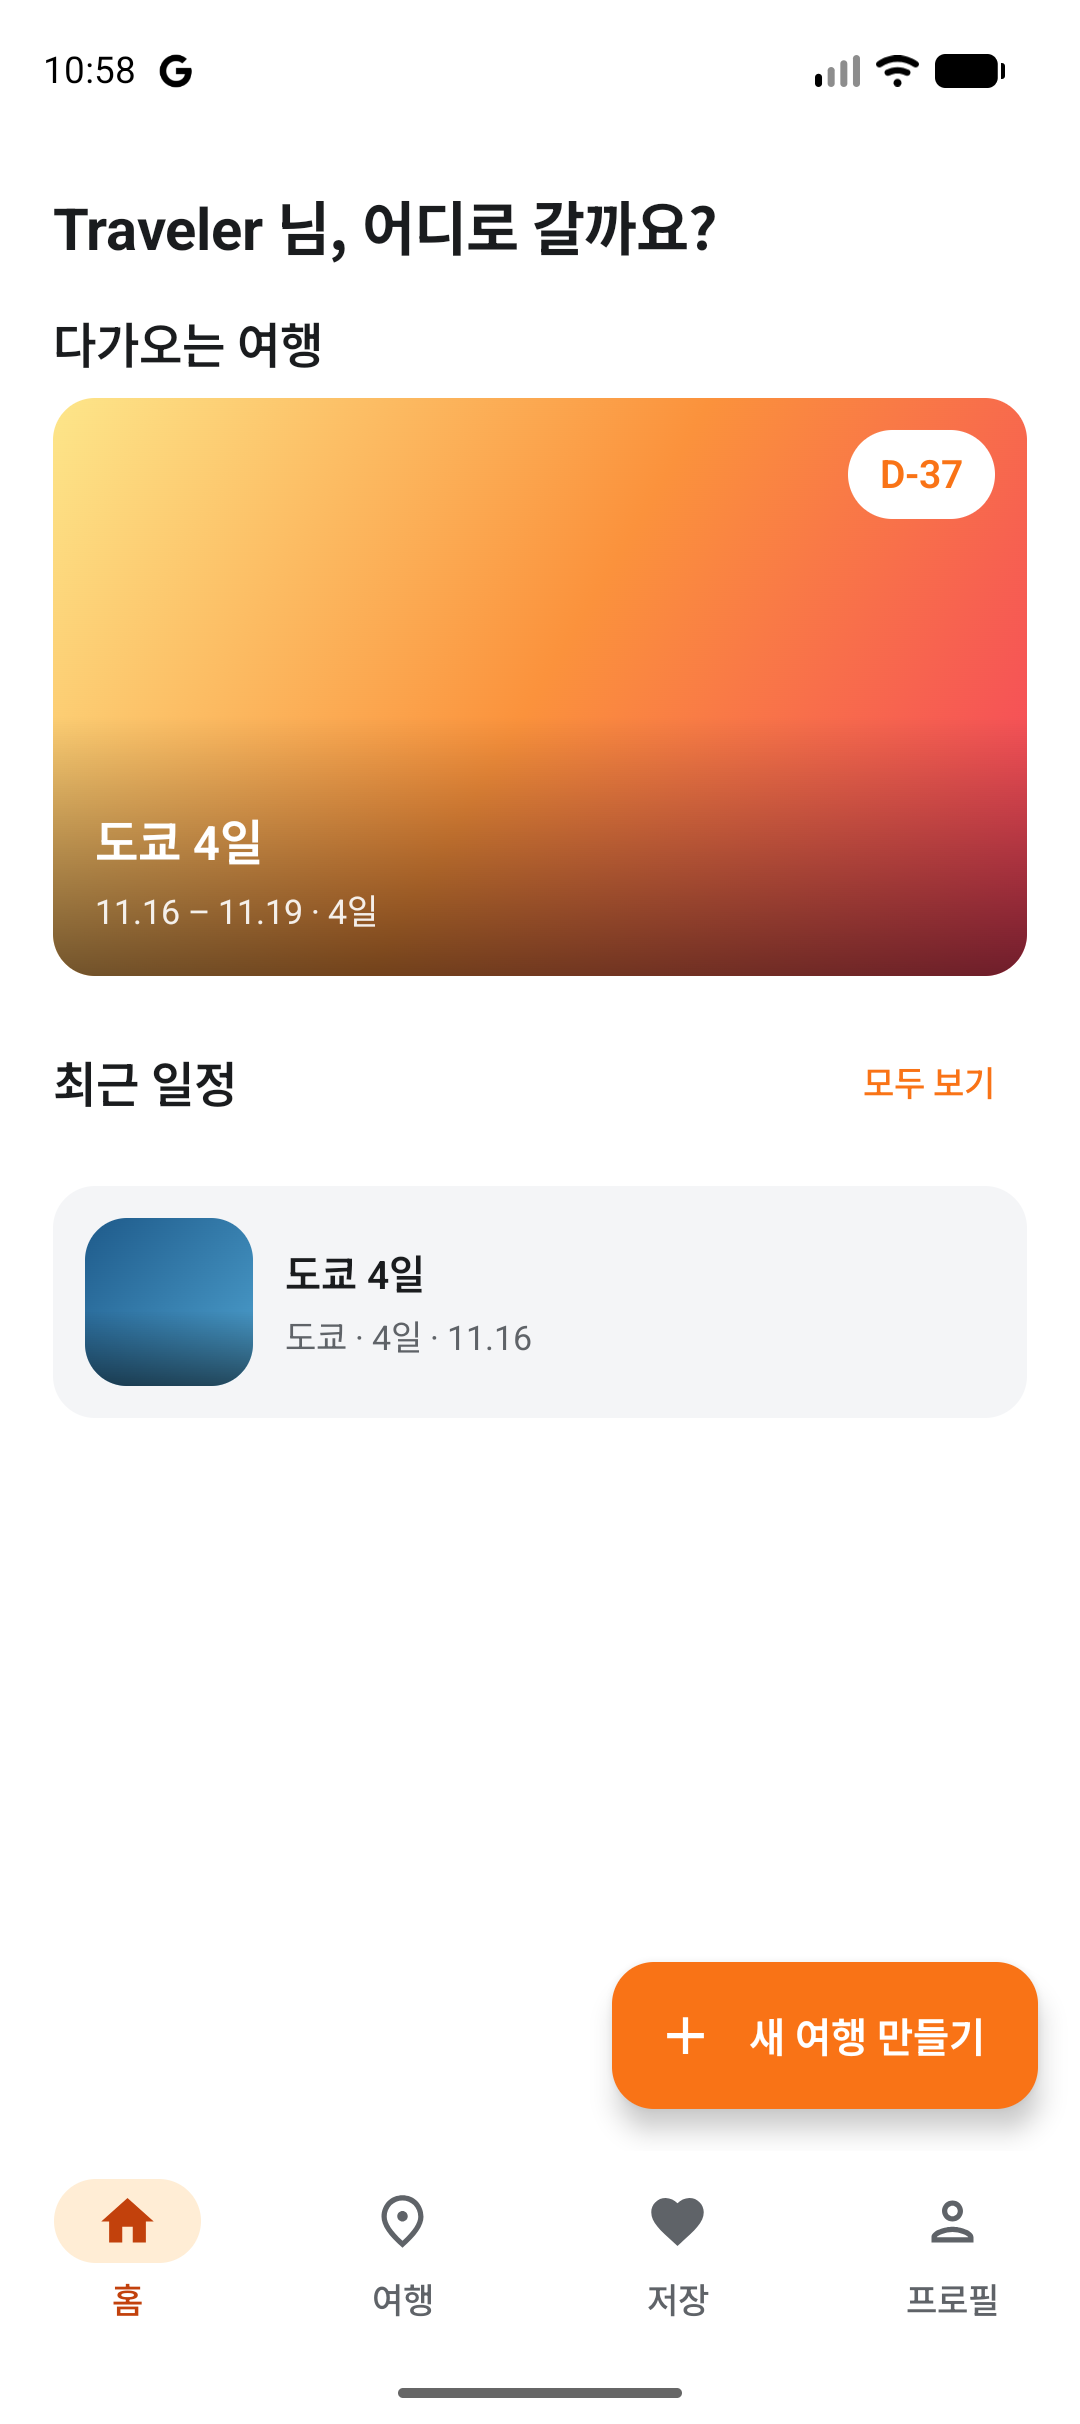
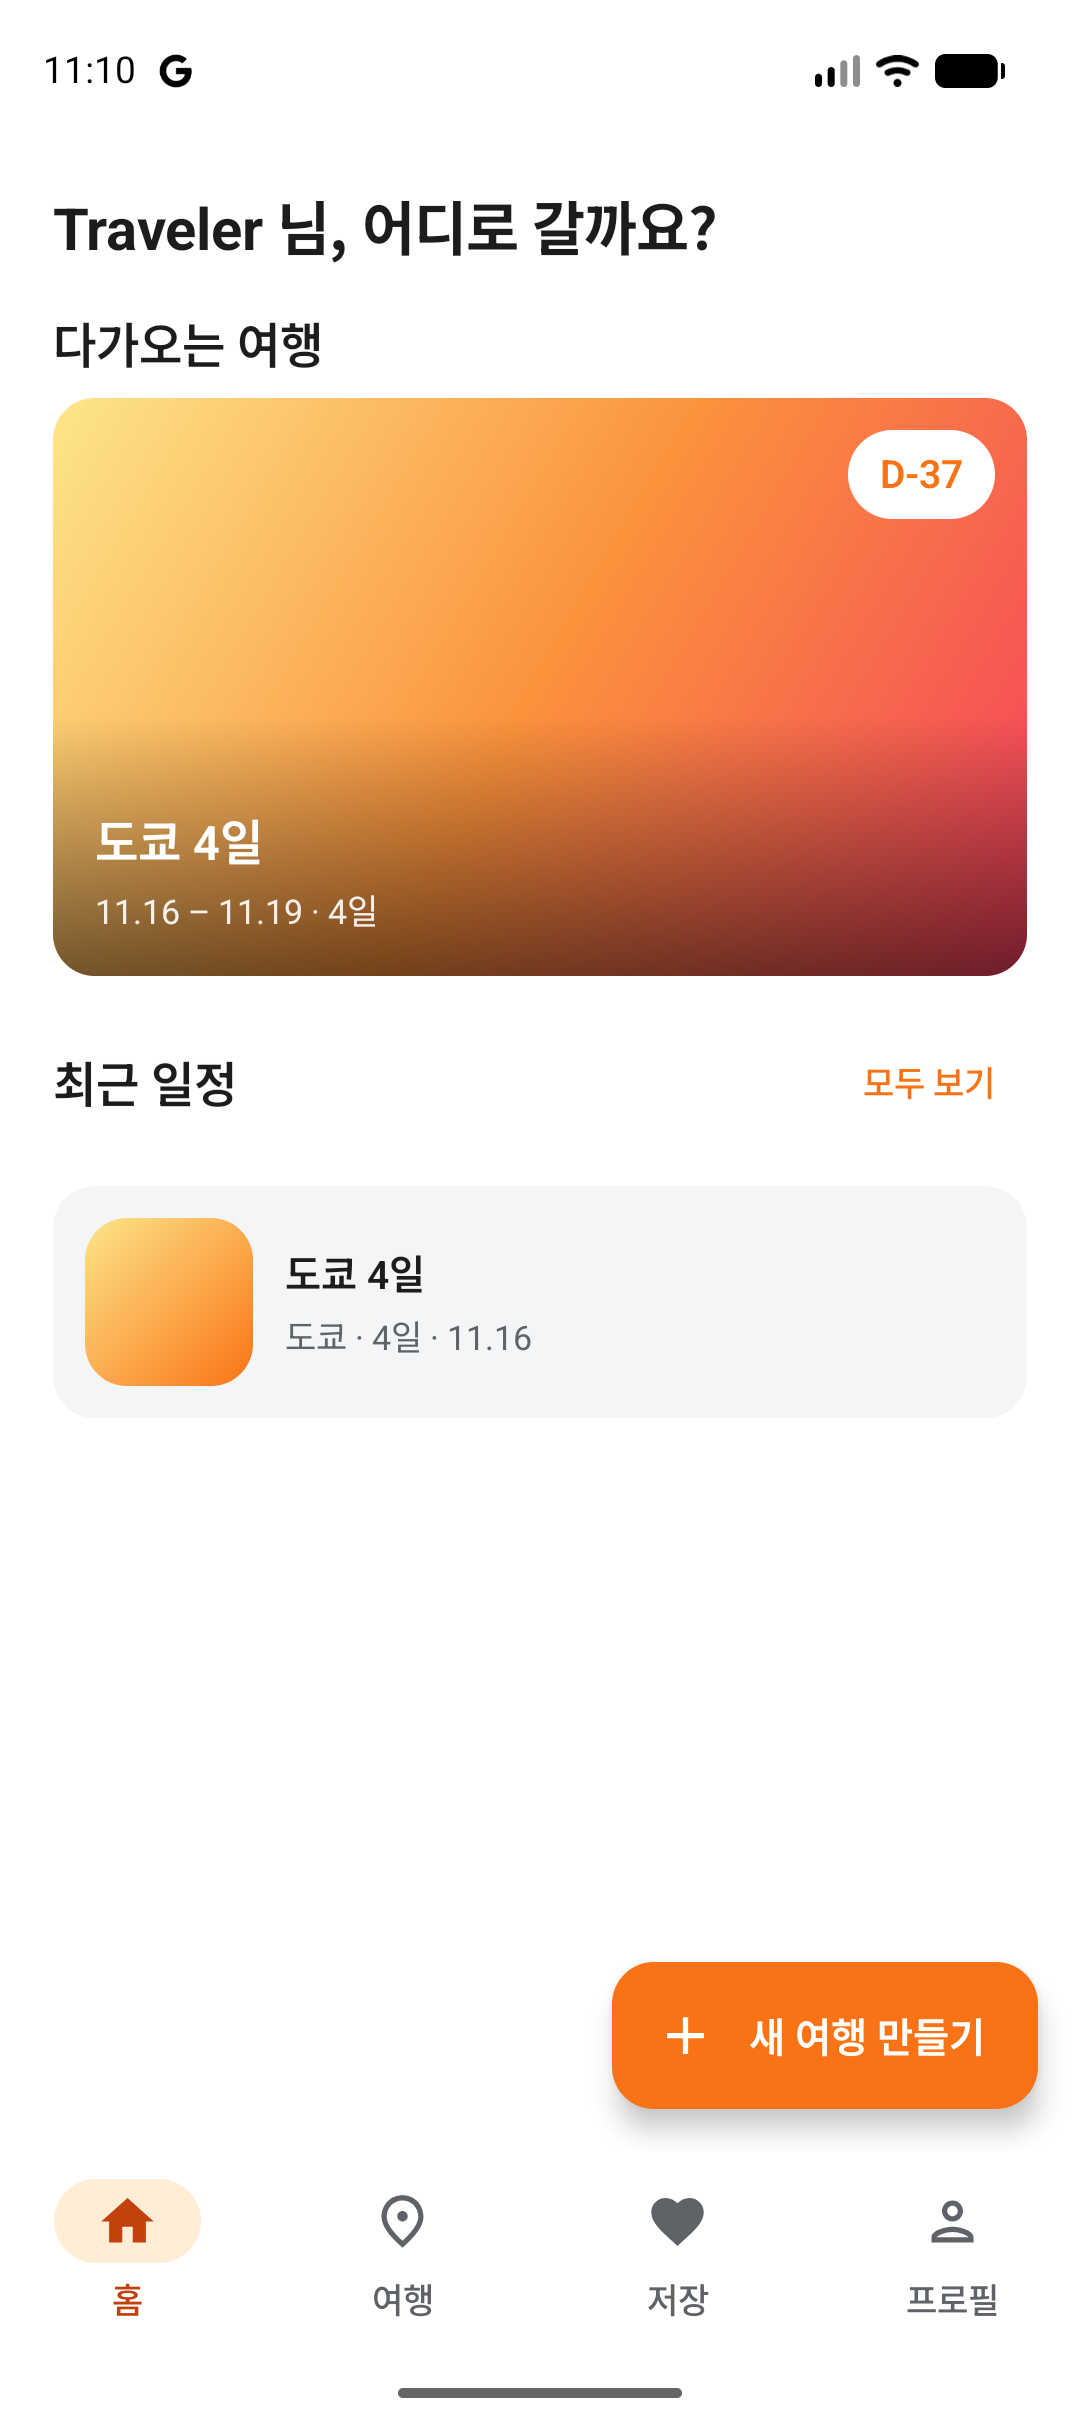
fix: 아이콘 색·시작 화면·로그인 여백·썸네일 색 다듬기
1. 시스템 시작 화면 배경색을 windowSplashScreenBackground에 명시했다.
   안드로이드 12+는 windowBackground에 그라데이션을 걸어도 한 색으로 눌러버린다.
   무엇이 나올지 모르는 채 두는 것보다 노을 가운데 색을 골라 적는 편이 낫다.

2. 스플래시에 최소 표시 시간(0.6초)을 뒀다. 다만 콜드 스타트에서는 소용이 없다 —
   시스템 시작 화면이 3초 넘게 떠 있는 동안 이 화면이 이미 시간을 다 세어버린다.
   붙잡아 두려면 core-splashscreen이 필요해 지금은 두고, 사정을 주석에 적었다.

3. 아이콘이 흐린 주황 하나로 보이던 것을 고쳤다. 원인이 둘이었다.
   - 그라데이션을 0~108로 깔아서 마스크가 양 끝의 노랑·자주를 잘라냈다. 18~90으로 좁혀
     보이는 구간 안에 세 색이 다 들어오게 했다.
   - 받침 흰 원이 너무 크고 진했다(r34/18% -> r26/10%).

4. 로그인 워드마크와 소개문 사이 여백을 24 -> 32dp. 가까우면 한 덩어리로 보여
   로고가 아니라 제목처럼 읽힌다.

5. 사진 자리 그라데이션 다섯 가지를 전부 노을 계열로 바꿨다. 청록·파랑·보라가 섞여 있어
   홈의 다가오는 여행 카드(노을) 바로 아래에 파란 썸네일이 붙었다.
   더불어 **글자가 없는 카드에는 어두운 덮개를 깔지 않는다** — 온보딩처럼 그림 자리로만
   쓰는 카드에서 지킬 글자도 없이 아래쪽만 탁해졌다.

캡처 4장을 새 모습으로 교체했다.

Changed region(s): [[0.0611, 0.495, 0.2444, 0.5879], [0.0917, 0.0, 0.1222, 0.0309]]

diff --git a/app/src/main/java/kr/ac/baekseok/readytogo/ui/splash/SplashScreen.kt b/app/src/main/java/kr/ac/baekseok/readytogo/ui/splash/SplashScreen.kt
@@ -1,5 +1,6 @@
 package kr.ac.baekseok.readytogo.ui.splash
 
+import android.os.SystemClock
 import androidx.compose.foundation.background
 import androidx.compose.foundation.layout.Arrangement
 import androidx.compose.foundation.layout.Box
@@ -13,6 +14,8 @@ import androidx.compose.runtime.Composable
 import androidx.compose.runtime.LaunchedEffect
 import androidx.compose.runtime.collectAsState
 import androidx.compose.runtime.getValue
+import androidx.compose.runtime.remember
+import kotlinx.coroutines.delay
 import androidx.compose.ui.Alignment
 import androidx.compose.ui.Modifier
 import androidx.compose.ui.graphics.Brush
@@ -33,8 +36,20 @@ import kr.ac.baekseok.readytogo.ui.theme.Tokens
 /**
  * 스플래시 — 저장된 로그인 세션을 확인하는 동안 보여준다.
  *
- * **고정 시간 대기가 아니다.** `delay(2000)` 같은 식으로 만들면 세션 확인이 빨리 끝나도
- * 2초를 기다려야 하고, 느릴 때는 확인이 안 끝난 채로 넘어간다. 상태가 정해지면 바로 넘긴다.
+ * **[MIN_VISIBLE_MS]만큼은 보여준다.** 세션 확인은 보통 눈 깜짝할 새에 끝나서, 그대로 두면
+ * 이 화면이 한 프레임도 그려지지 않고 지나간다. 모자란 만큼만 채우고, 확인이 오래 걸리면
+ * 더 기다리지 않는다 — `delay(2000)` 같은 고정 대기가 아니다.
+ *
+ * **다만 콜드 스타트에서는 이 최소 시간이 소용없다.** 안드로이드 12부터 앱이 처음 뜨는
+ * 동안은 시스템이 자기 시작 화면(배경색 + 아이콘)을 띄워 두는데, 그 시간이 에뮬레이터
+ * 기준 3초가 넘는다. 그동안 이 화면은 이미 composition이 끝나 0.6초를 다 세어버려서,
+ * 시스템 화면이 걷힐 때는 벌써 다음 화면으로 넘어간 뒤다. 그래서 **차갑게 시작하면
+ * 사용자가 보는 시작 화면은 시스템 쪽**이고, 이 화면은 세션 확인이 느릴 때나 따뜻한
+ * 재시작에서 보인다.
+ *
+ * 콜드 스타트에서도 이 화면을 보여주려면 시스템 시작 화면을 우리가 붙잡고 있어야 하는데
+ * (androidx core-splashscreen의 `setKeepOnScreenCondition`), 그건 라이브러리가 하나 는다.
+ * 시스템 시작 화면도 같은 주황에 같은 아이콘이라 지금은 그대로 둔다.
  *
  * 배경이 시스템 windowBackground(splash_background.xml)와 같은 노을이라, 앱이 뜨는
  * 순간과 이 화면 사이에 경계가 보이지 않는다.
@@ -50,12 +65,19 @@ fun SplashScreen(
     viewModel: AuthViewModel = viewModel(),
 ) {
     val authState by viewModel.authState.collectAsState()
+    val shownAt = remember { SystemClock.elapsedRealtime() }
 
     LaunchedEffect(Unit) { viewModel.restoreSession() }
 
-    // Unknown이 아니게 되는 순간 넘어간다.
     LaunchedEffect(authState) {
-        if (authState !is AuthState.Unknown) onReady(authState)
+        if (authState is AuthState.Unknown) return@LaunchedEffect
+
+        // 모자란 만큼만 채우고 넘어간다. 확인이 오래 걸리면 더 기다리지 않는다 —
+        // 고정 대기가 아니라 **최소** 표시 시간이다.
+        val shownFor = SystemClock.elapsedRealtime() - shownAt
+        if (shownFor < MIN_VISIBLE_MS) delay(MIN_VISIBLE_MS - shownFor)
+
+        onReady(authState)
     }
 
     Box(
@@ -89,3 +111,11 @@ fun SplashScreen(
         }
     }
 }
+
+/**
+ * 스플래시를 최소한 이만큼은 보여준다.
+ *
+ * 0.6초인 이유: 더 짧으면 깜빡이는 것처럼 보이고, 1초를 넘기면 앱이 느리게 느껴진다.
+ * 로고를 한 번 읽을 수 있는 가장 짧은 시간이다.
+ */
+private const val MIN_VISIBLE_MS = 600L

diff --git a/app/src/main/java/kr/ac/baekseok/readytogo/ui/theme/DesignTokens.kt b/app/src/main/java/kr/ac/baekseok/readytogo/ui/theme/DesignTokens.kt
@@ -17,15 +17,24 @@ object Tokens {
      * 사진 자리를 채우는 그라데이션. 아직 실제 사진을 붙이지 않아 색으로 칸을 채운다.
      * 카드마다 다른 조합이 나오도록 [placeholderGradient]가 골라 쓴다.
      *
+     * **전부 노을 계열로 맞춘다.** 전에는 청록·파랑·보라·초록이 섞여 있어서, 홈의
+     * 다가오는 여행 카드(노을) 바로 아래에 파란 썸네일이 붙는 식으로 색이 따로 놀았다.
+     * 다섯 가지를 두는 이유는 그대로다 — 목적지마다 달라야 목록이 한 덩어리로 안 보인다.
+     *
      * 색 한 벌([AppPalette])과 달리 여기 있는 값은 고대비에서도 바뀌지 않는다 —
      * 사진을 대신하는 자리라 글자를 얹지 않고, 대비를 따질 대상이 아니다.
      */
     val PlaceholderGradients = listOf(
-        listOf(Color(0xFF0F766E), Color(0xFF14B8A6)),
-        listOf(Color(0xFF1E5A8A), Color(0xFF4FA3D1)),
-        listOf(Color(0xFF6B4E8F), Color(0xFFA78BC4)),
-        listOf(Color(0xFF8A5A2B), Color(0xFFD1A066)),
-        listOf(Color(0xFF2E6B4F), Color(0xFF6DBE94)),
+        // 해질녘 — 브랜드 노을에 가장 가깝다.
+        listOf(Color(0xFFFB923C), Color(0xFFF43F5E)),
+        // 한낮 — 노랑에서 주황으로.
+        listOf(Color(0xFFFDE68A), Color(0xFFF97316)),
+        // 저녁 늦게 — 주황에서 자주로.
+        listOf(Color(0xFFF97316), Color(0xFF9F1239)),
+        // 사막 — 모래빛 갈색.
+        listOf(Color(0xFFD97706), Color(0xFF7C2D12)),
+        // 새벽 — 분홍빛이 도는 살구색.
+        listOf(Color(0xFFFCA5A5), Color(0xFFEA580C)),
     )
 
     /** 4dp 배수로만 쓴다. 눈대중으로 5, 7, 13을 섞으면 줄이 안 맞는다. */

diff --git a/app/src/main/java/kr/ac/baekseok/readytogo/ui/component/PhotoCard.kt b/app/src/main/java/kr/ac/baekseok/readytogo/ui/component/PhotoCard.kt
@@ -78,17 +78,22 @@ fun PhotoCard(
             ),
     ) {
         // 아래쪽을 어둡게 덮는다. 그라데이션 색에 따라 흰 글자가 안 보이는 경우를 막는다.
-        Box(
-            modifier = Modifier
-                .fillMaxSize()
-                .background(
-                    Brush.verticalGradient(
-                        0f to Color.Transparent,
-                        0.55f to Color.Transparent,
-                        1f to Color.Black.copy(alpha = 0.55f),
+        //
+        // **글자가 없으면 깔지 않는다.** 온보딩처럼 제목 없이 그림 자리로만 쓰는 카드에서는
+        // 지킬 글자가 없는데, 노을 그라데이션 위에 검은 덮개가 겹쳐 아래쪽이 탁해졌다.
+        if (title.isNotEmpty() || subtitle != null) {
+            Box(
+                modifier = Modifier
+                    .fillMaxSize()
+                    .background(
+                        Brush.verticalGradient(
+                            0f to Color.Transparent,
+                            0.55f to Color.Transparent,
+                            1f to Color.Black.copy(alpha = 0.55f),
+                        ),
                     ),
-                ),
-        )
+            )
+        }
 
         Column(
             modifier = Modifier

diff --git a/app/src/main/java/kr/ac/baekseok/readytogo/ui/auth/LoginScreen.kt b/app/src/main/java/kr/ac/baekseok/readytogo/ui/auth/LoginScreen.kt
@@ -84,7 +84,9 @@ fun LoginScreen(
             ) {
                 Wordmark(width = Tokens.Size.loginWordmark)
 
-                Spacer(modifier = Modifier.height(Tokens.Space.xl))
+                // 워드마크는 궤적이 글자 위로 지나가 윗변이 꽉 찬 모양이다. 문구를 가까이 붙이면
+                // 한 덩어리로 보여 로고가 아니라 제목처럼 읽힌다.
+                Spacer(modifier = Modifier.height(Tokens.Space.xxl))
 
                 Text(
                     text = stringResource(R.string.login_tagline),

diff --git a/docs/screenshots/README.md b/docs/screenshots/README.md
@@ -6,9 +6,13 @@
 | 파일 | 내용 |
 |---|---|
 | `icon.png` | 런처 홈 화면의 앱 아이콘 (독 오른쪽) |
-| `splash.png` | 앱 시작 화면 |
+| `splash.png` | 앱 시작 화면. 아이콘이 크게 나와 모양을 보기 좋다 |
 | `login.png` | 로그인 — 노을 영역 + 워드마크 |
 | `home.png` | 홈 — 다가오는 여행 카드, FAB |
+
+`splash.png`는 **시스템이 그리는** 시작 화면이다. 안드로이드 12부터 앱이 처음 뜨는 동안은
+시스템이 "배경색 + 앱 아이콘"만 그리고, 앱이 만든 스플래시(노을 + 워드마크)는 그 뒤에 잠깐
+지나간다. 자세한 사정은 `ui/splash/SplashScreen.kt` 주석에 적었다.
 
 **찍은 환경**: 에뮬레이터 Pixel 9 / API 36.1(Android 16) / 1080×2424,
 앱 언어 한국어, 글자 크기 보통, 고대비 끔.
